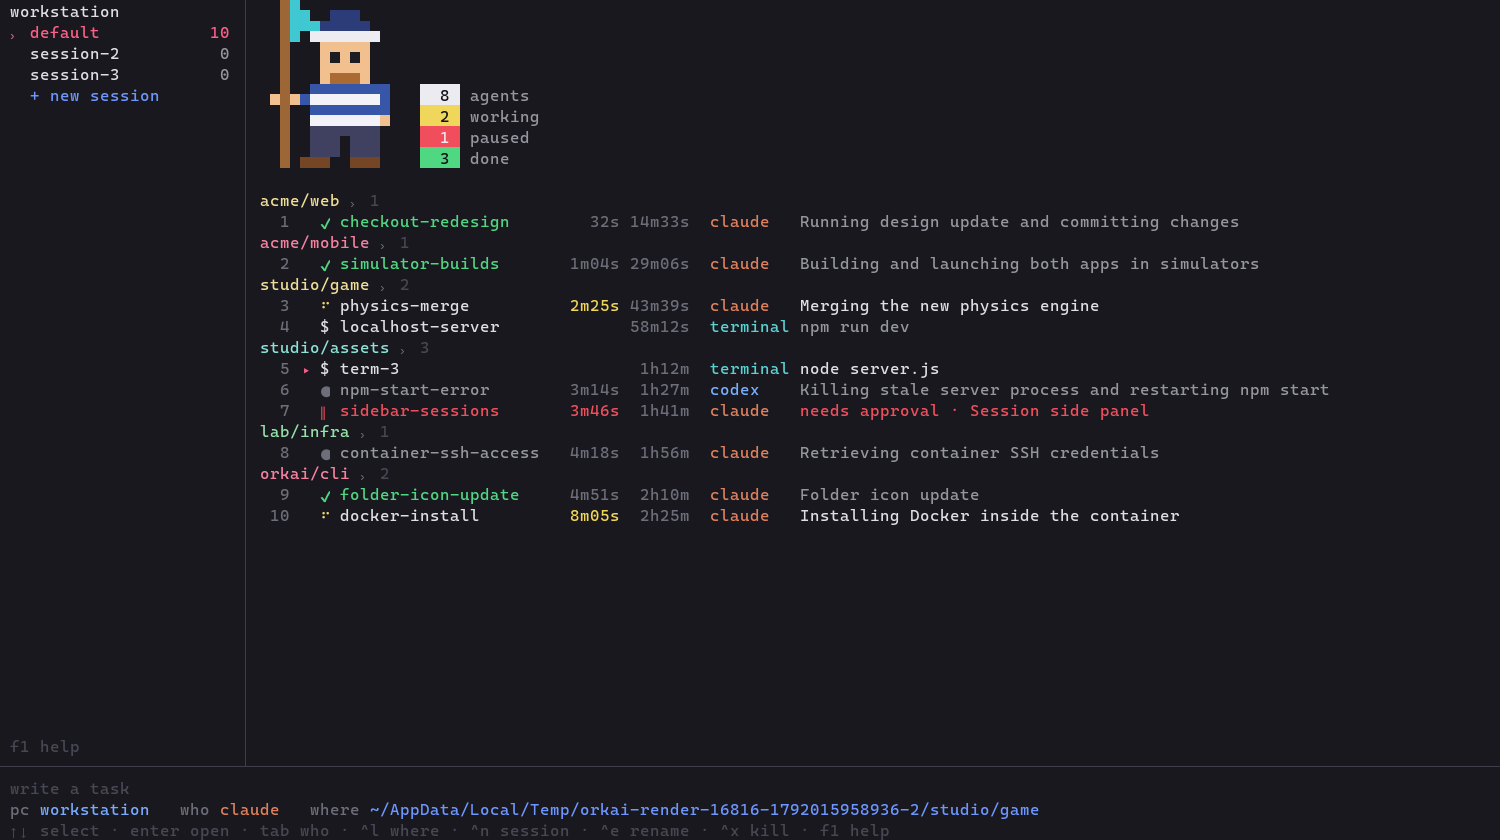
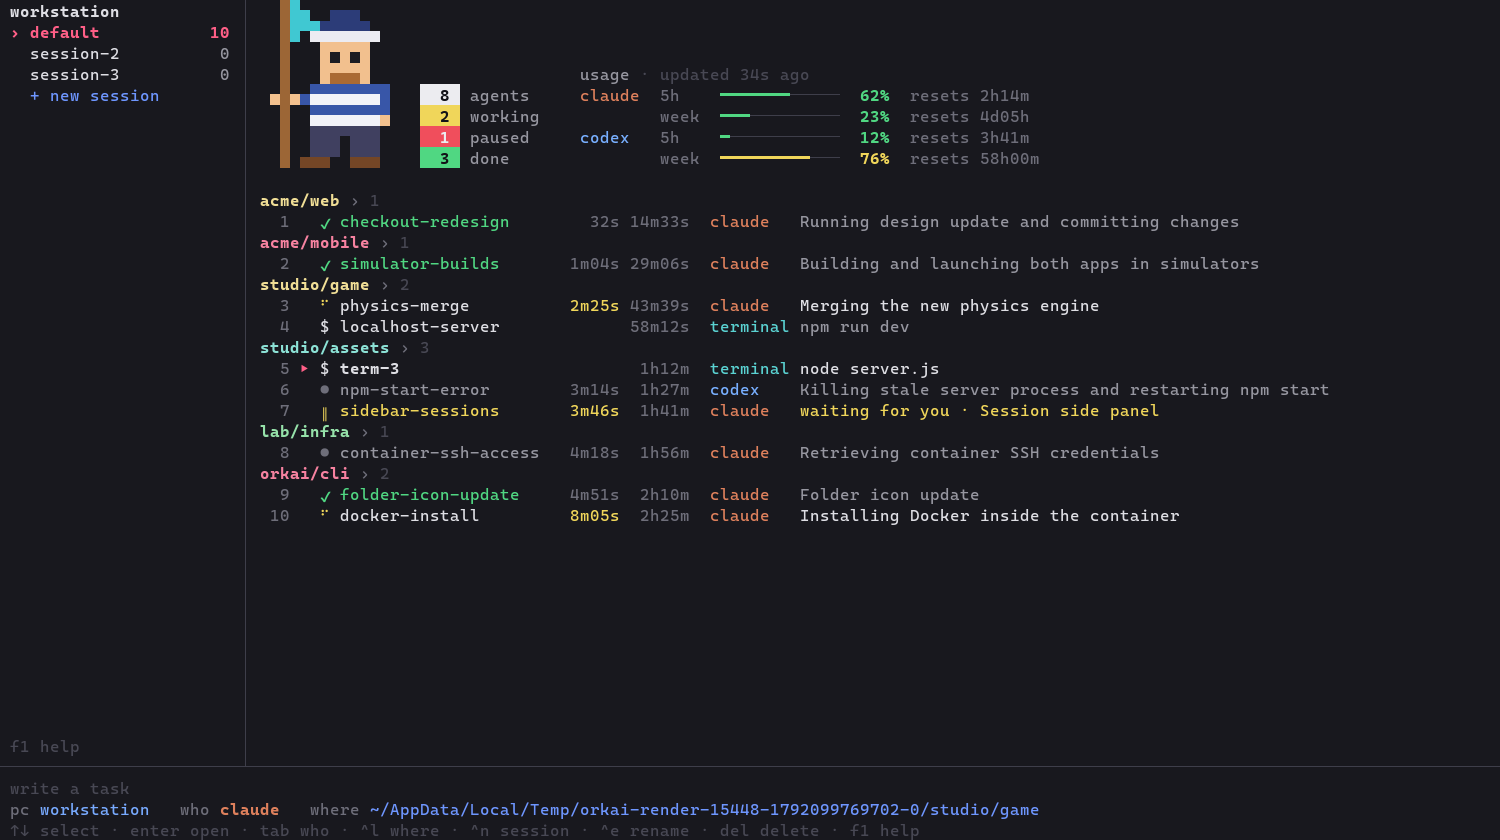
Refresh the overview screenshot with the usage panel
The screenshot test now renders sample Claude Code and Codex usage, so
the dump behind docs/overview.png shows the panel next to the counters.

diff --git a/tests/render_overview.rs b/tests/render_overview.rs
@@ -19,7 +19,7 @@ use orkai::store::Store;
 use orkai::subagents::Subagent;
 use orkai::tui::app::{App, AppEvent, Confirm, Link, Prompt};
 use orkai::tui::{render, theme};
-use orkai::usage::{Limits, Problem, Window};
+use orkai::usage::{Limits, Problem, Usage, Window};
 use orkai::util::now_ms;
 
 const WIDTH: u16 = 150;
@@ -183,6 +183,16 @@ fn dump(buffer: &Buffer, path: &str) {
 #[test]
 fn overview_shows_sessions_stats_projects_and_composer() {
     let mut scenario = scenario();
+    let now = now_ms();
+    let window =
+        |used_percent, minutes: u64| Some(Window { used_percent, resets_at_ms: Some(now + minutes * 60_000 + 30_000) });
+    let usage = |session, weekly| Usage {
+        limits: Some(Limits { session, weekly }),
+        problem: None,
+        updated_at_ms: Some(now - 34_000),
+    };
+    scenario.app.usage.insert(AgentKind::Claude, usage(window(62.0, 134), window(23.0, 6_060)));
+    scenario.app.usage.insert(AgentKind::Codex, usage(window(12.0, 221), window(76.0, 3_480)));
     let buffer = render(&mut scenario.app);
     if let Ok(path) = std::env::var("ORKAI_RENDER_DUMP") {
         dump(&buffer, &path);
@@ -204,6 +214,11 @@ fn overview_shows_sessions_stats_projects_and_composer() {
         "write a task",
         "who claude",
         "where",
+        "usage · updated 34s ago",
+        "62%  resets 2h14m",
+        "23%  resets 4d05h",
+        "12%  resets 3h41m",
+        "76%  resets 58h00m",
     ] {
         assert!(screen.contains(expected), "missing {expected:?} in:\n{screen}");
     }
